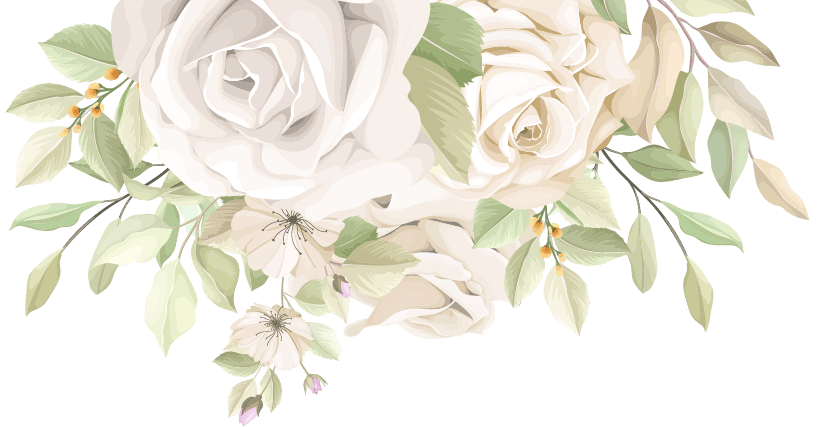
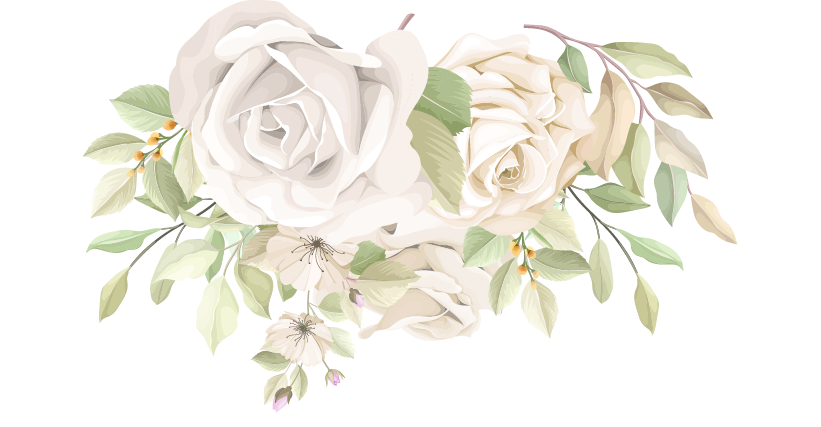
,

diff --git a/style.css b/style.css
@@ -2195,7 +2195,7 @@ body {
   background-color: #f8f1e6;
   padding: 4rem 0;
   text-align: center;
-  overflow: hidden;
+  overflow: visible; /* CAMBIADO: antes era hidden, ahora visible para no recortar la imagen de RSVP */
 }
 
 .mesa-subtitulo {
@@ -2206,6 +2206,7 @@ body {
   color: var(--gris-oscuro);
   max-width: 700px;
   margin: 0 auto 3rem;
+  border-bottom: 1px solid rgba(0,0,0,0.05);
   padding-bottom: 1.5rem;
 }
 
@@ -2284,7 +2285,7 @@ body {
   border-color: #8B7355;
 }
 
-/* Imagen decorativa inferior */
+/* Imagen decorativa inferior (solo responsive) */
 .mesa-imagen-inferior {
   position: absolute;
   bottom: 0;
@@ -2304,10 +2305,6 @@ body {
 @media (max-width: 991px) {
   .mesa-imagen-inferior {
     display: block;
-    
-  }
-  .mesa-imagen-inferior img {
-    width: 300px;
   }
   .mesa-regalos-section {
     padding-bottom: calc(4rem + 150px);
@@ -2319,7 +2316,7 @@ body {
 
 @media (max-width: 768px) {
   .mesa-imagen-inferior img {
-    width: 300px;
+    width: 130px;
   }
   .mesa-regalos-section {
     padding-bottom: calc(4rem + 130px);
@@ -2341,7 +2338,7 @@ body {
     font-size: 0.8rem;
   }
   .mesa-imagen-inferior img {
-    width: 300px;
+    width: 110px;
   }
   .mesa-regalos-section {
     padding-bottom: calc(3rem + 110px);
@@ -2354,7 +2351,8 @@ body {
   background-color: var(--blanco);
   padding: 4rem 0;
   text-align: center;
-  overflow: hidden;
+  overflow: visible;      /* Aseguramos que no recorte la imagen superior */
+  z-index: 10;             /* Por encima de la sección anterior */
 }
 
 .rsvp-subtitulo {
@@ -2365,6 +2363,7 @@ body {
   color: var(--gris-oscuro);
   max-width: 600px;
   margin: 0 auto 2rem;
+  border-bottom: 1px solid rgba(0,0,0,0.05);
   padding-bottom: 1.5rem;
 }
 
@@ -2460,14 +2459,15 @@ body {
   position: absolute;
   left: 50%;
   transform: translateX(-50%);
-  z-index: 5;
+  z-index: 15;            /* Por encima del contenido de la sección anterior */
   pointer-events: none;
   display: none;
 }
 
 .rsvp-imagen-superior {
-  top: 0;
+  top: 0;                  /* Se ajustará con top negativo en responsive */
 }
+
 .rsvp-imagen-inferior {
   bottom: 0;
 }
@@ -2480,63 +2480,85 @@ body {
   height: auto;
 }
 
+/* ===== MEDIA QUERIES ===== */
 @media (max-width: 991px) {
   .rsvp-imagen-superior,
   .rsvp-imagen-inferior {
     display: block;
   }
+
+  .rsvp-imagen-superior {
+    top: -60px;            /* Sobresale hacia arriba */
+  }
+
   .rsvp-imagen-superior img {
     width: 300px;
   }
+
   .rsvp-imagen-inferior img {
     width: 300px;
   }
+
   .rsvp-section {
-    padding-top: calc(4rem + 120px);
-    padding-bottom: calc(4rem + 120px);
+    padding-top: calc(4rem + 80px);   /* 4rem (padding original) + espacio para la imagen */
+    padding-bottom: calc(4rem + 60px);
   }
+
   .rsvp-subtitulo {
     font-size: 1.1rem;
   }
 }
 
 @media (max-width: 768px) {
+  .rsvp-imagen-superior {
+    top: -50px;
+  }
+
   .rsvp-imagen-superior img,
   .rsvp-imagen-inferior img {
-    width: 350px;
+    width: 280px;
   }
+
   .rsvp-section {
-    padding-top: calc(4rem + 100px);
-    padding-bottom: calc(4rem + 100px);
+    padding-top: calc(4rem + 70px);
+    padding-bottom: calc(4rem + 50px);
   }
 }
 
 @media (max-width: 576px) {
+  .rsvp-imagen-superior {
+    top: -40px;            /* Ajusta este valor según necesites */
+  }
+
   .rsvp-imagen-superior img,
   .rsvp-imagen-inferior img {
-    width: 300px;
+    width: 250px;
   }
+
   .rsvp-section {
-    padding-top: calc(3rem + 80px);
-    padding-bottom: calc(3rem + 80px);
+    padding-top: calc(3rem + 60px);   /* 3rem + espacio */
+    padding-bottom: calc(3rem + 40px);
   }
+
   .rsvp-form {
     max-width: 100%;
   }
+
   .form-group input,
   .form-group select {
     padding: 0.7rem;
     font-size: 0.95rem;
   }
+
   .rsvp-submit-btn {
     padding: 0.9rem;
     font-size: 1rem;
   }
+
   .rsvp-subtitulo {
     font-size: 1rem;
   }
 }
-
 /* ========== WEDSHOOTS ========== */
 .wedshoots-section {
   position: relative;

diff --git a/index.html b/index.html
@@ -559,10 +559,7 @@
       </div>
     </div>
   </div>
-  <!-- Imagen decorativa inferior (solo responsive) -->
-  <div class="mesa-imagen-inferior">
-    <img src="imagenes/flor05-48.png" alt="Decoración floral">
-  </div>
+
 </section>
 
 <!-- SECCIÓN RSVP (CONFIRMACIÓN POR WHATSAPP) -->
